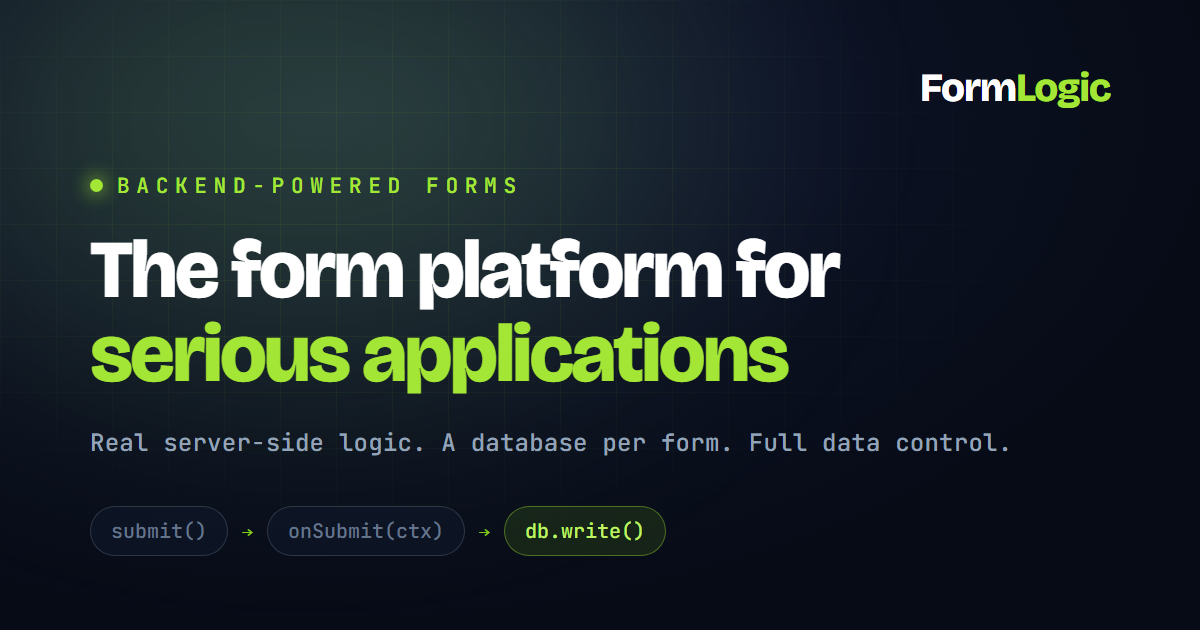
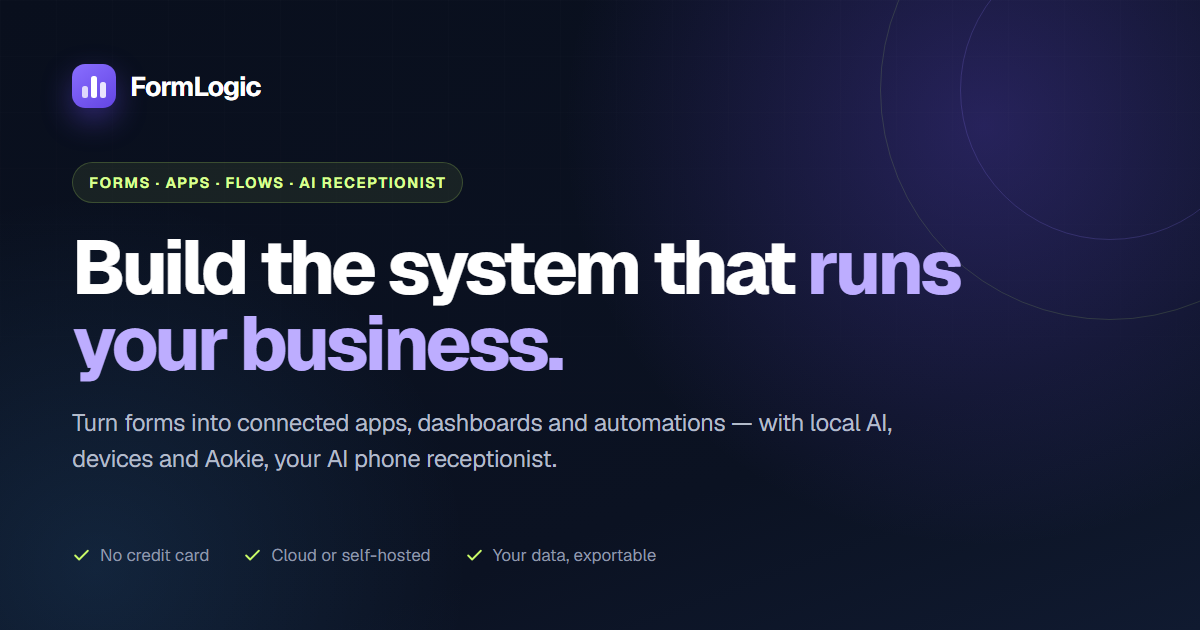
Landing v2 follow-ups: new og-image, Desktop download CTA, /download copy refresh
- public/og-image.png regenerated (1200x630) to match the new story: dark
  navy hero, FormLogic mark, 'Build the system that runs your business.',
  Forms/Apps/Flows/AI-receptionist eyebrow and the proof line.
- /download now describes FormLogic Desktop accurately (local AI services,
  models, supervised plugins/hardware incl. Aokie, headless flows) instead of
  the older generic native-runtime copy — reconciling the page so the landing
  can point at it.
- Landing Desktop spotlight gains the 'Get FormLogic Desktop' CTA to
  /download (kept honest: Windows UI today, web app everywhere).
- aokieSettingsSchema conformance test follows the Aokie settings UI to its
  new home (desktop/src/aokie/AokieCard.tsx) after the redesign extraction.

551 frontend tests green; build green.

diff --git a/form-builder/ui/src/components/flows/aokieSettingsSchema.test.ts b/form-builder/ui/src/components/flows/aokieSettingsSchema.test.ts
@@ -25,7 +25,9 @@ const fixture = JSON.parse(
 };
 
 const panelSource = readFileSync(
-  join(__dirname, '../../../../desktop/src/PluginsPanel.tsx'),
+  // The Aokie settings UI moved from PluginsPanel into the shared feature
+  // module during the 2026-07 desktop redesign.
+  join(__dirname, '../../../../desktop/src/aokie/AokieCard.tsx'),
   'utf8'
 );
 
@@ -41,7 +43,7 @@ describe('aokie settings schema conformance', () => {
 
   it('the Desktop panel offers only hfpCodec values the plugin accepts', () => {
     const union = panelSource.match(/hfpCodec:\s*((?:'[a-z]+'\s*\|\s*)+'[a-z]+')/);
-    expect(union, 'PluginsPanel hfpCodec union type').toBeTruthy();
+    expect(union, 'AokieCard hfpCodec union type').toBeTruthy();
     const offered = [...union![1].matchAll(/'([a-z]+)'/g)].map((m) => m[1]);
     const allowed = spec('hfpCodec')?.options ?? [];
     for (const value of offered) {
@@ -52,7 +54,7 @@ describe('aokie settings schema conformance', () => {
   it('the Desktop panel defaults sit inside the plugin bounds', () => {
     for (const key of ['sttEndpointMs', 'bargeSensitivity'] as const) {
       const m = panelSource.match(new RegExp(`${key}:\\s*(\\d+)`));
-      expect(m, `PluginsPanel default for ${key}`).toBeTruthy();
+      expect(m, `AokieCard default for ${key}`).toBeTruthy();
       const def = Number(m![1]);
       const s = spec(key)!;
       expect(def, `${key} default ${def} within [${s.min}, ${s.max}]`).toBeGreaterThanOrEqual(s.min!);

diff --git a/form-builder/ui/src/pages/DownloadPage.tsx b/form-builder/ui/src/pages/DownloadPage.tsx
@@ -44,10 +44,11 @@ export function DownloadPage() {
         <div className="mx-auto flex h-16 w-16 items-center justify-center rounded-2xl bg-primary-600 text-white shadow-lg">
           <Download className="h-8 w-8" />
         </div>
-        <h1 className="mt-6 text-3xl font-bold tracking-tight text-gray-900 dark:text-white">Get the FormLogic app</h1>
+        <h1 className="mt-6 text-3xl font-bold tracking-tight text-gray-900 dark:text-white">Get FormLogic Desktop</h1>
         <p className="mt-3 text-sm leading-relaxed text-gray-600 dark:text-slate-300">
-          The FormLogic app runs your apps on the desktop with local device features — and everything also works right
-          here in your browser.
+          FormLogic Desktop is the local capability layer: it runs local AI services and models, connects supervised
+          plugins and hardware (like the Aokie AI receptionist), and keeps your flows running headlessly — while
+          everything also works right here in your browser.
         </p>
 
         <div className="mt-8 flex flex-col gap-3 text-left">

diff --git a/form-builder/ui/src/components/landing-v2/DesktopSpotlight.tsx b/form-builder/ui/src/components/landing-v2/DesktopSpotlight.tsx
@@ -1,6 +1,8 @@
+import { Link } from 'react-router-dom';
 import {
   Code2,
   Database,
+  Download,
   LayoutGrid,
   Monitor,
   PhoneCall,
@@ -112,9 +114,14 @@ export function DesktopSpotlight() {
               </div>
             </span>
           </div>
+          <div className="lv2-inline-actions" style={{ marginTop: 26 }}>
+            <Link to="/download" className="lv2-btn lv2-btn--primary">
+              Get FormLogic Desktop <Download size={16} />
+            </Link>
+          </div>
           <span className="lv2-desktop__note">
             <Monitor size={15} /> Windows desktop UI today; a Linux headless runtime is also
-            available.
+            available. The web app works everywhere.
           </span>
         </div>
       </div>
